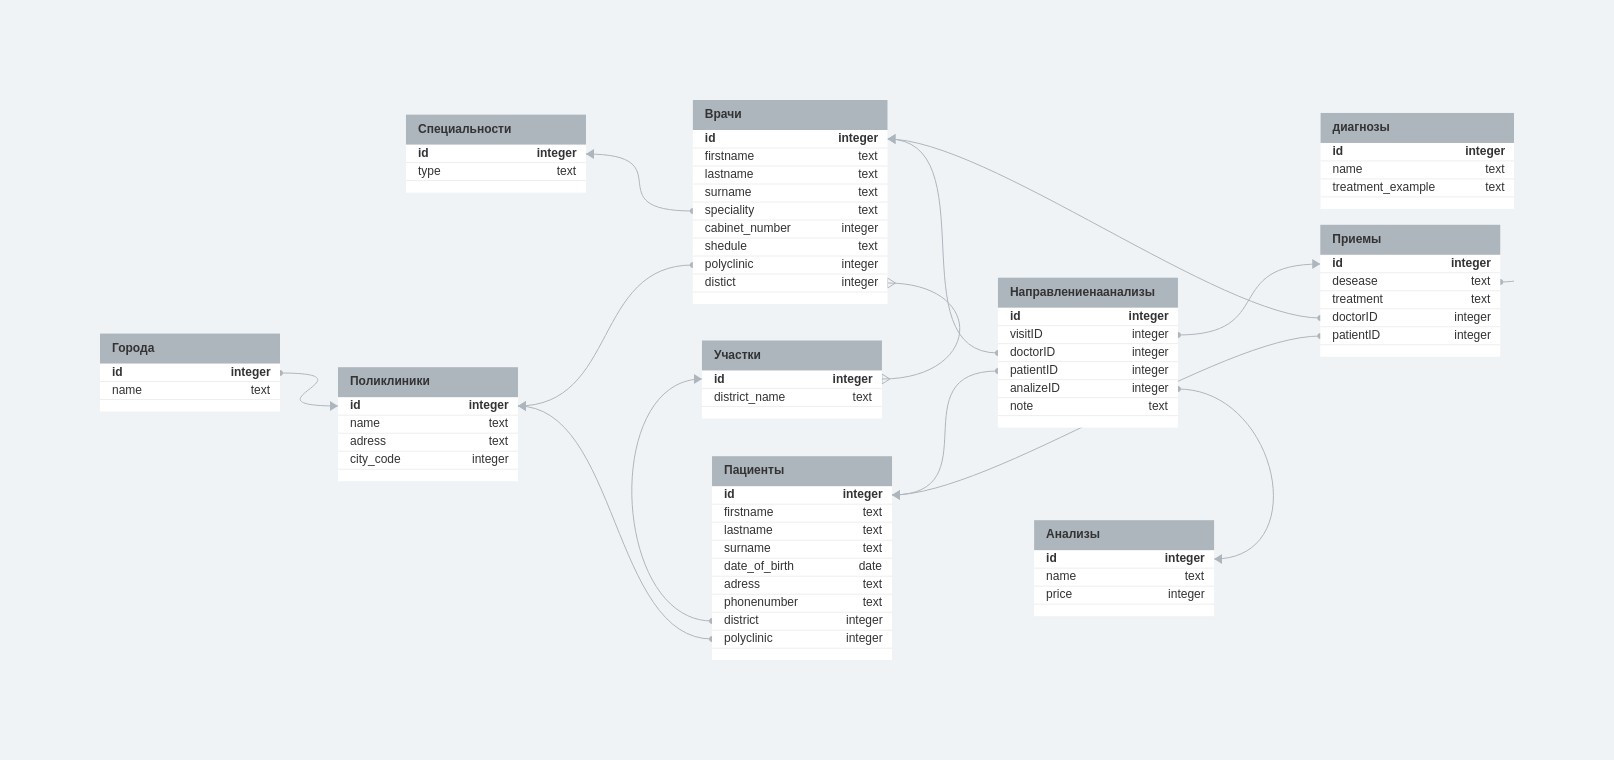
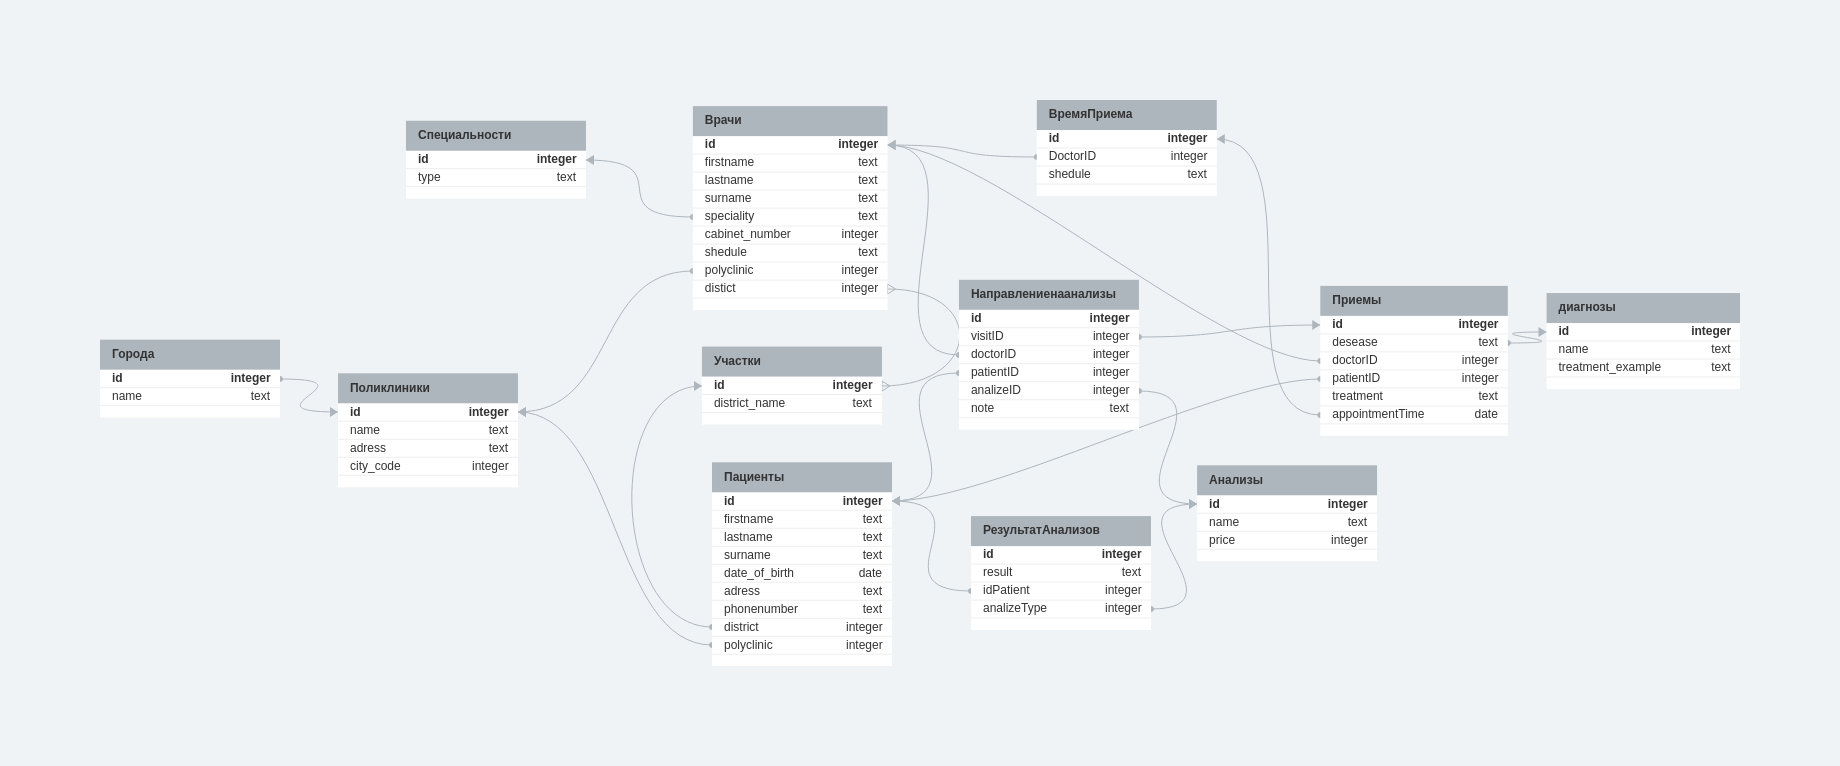
4

diff --git a/src/README.md b/src/README.md
@@ -12,19 +12,19 @@ phonenumber text
 district integer > Участки.id
 polyclinic integer > Поликлиники.id```
 }
-
+* пациент прикреплен к своему участку в поликлинике, поликлиники.id, участки.id
 > диагнозы {```
     id integer pk increments
     name text
     treatment_example text```
 }
-
+* здесь у нас есть виды болезней и их примерное лечение
 > Анализы {```
 id integer pk increments
 name text
 price integer```
 }
-
+* здесь у указаны виды анализов и их стоимость
 > Врачи {```
 id integer pk increments
 firstname text
@@ -36,37 +36,38 @@ shedule text
 polyclinic integer > Поликлиники.id
 distict integer```
 }
-
+* здесь у нас врачи, где каждый привязан к определенному учатку своей поликлиники
 > Специальности {```
 id integer pk increments > Doctor.id
 type text```
 }
-
+* тут у нас специальности врачей
 > Поликлиники {```
 id integer pk increments
 name text
 adress text
 city_code integer```
 }
-
+* тут у нас поликлиники города
 > Города {```
 id integer pk increments > Поликлиники.id
 name text```
 }
-
+* тут города
 > Участки {```
 id integer pk increments *>* Врачи.distict
 district_name text```
 }
-
+* тут участки поликилиники
 > Приемы {```
 id integer pk increments
 desease text > диагнозы.id
-treatment text
 doctorID integer > Врачи.id
-patientID integer > Пациенты.id```
+patientID integer > Пациенты.id
+treatment text
+appointmentTime date > ВремяПриема.id```
 }
-
+* по результатам приема мы можем получить направление на анализы, диагноз и лечение
 > Направлениенаанализы {```
 id integer pk increments
 visitID integer > Приемы.id
@@ -75,3 +76,17 @@ patientID integer > Пациенты.id
 analizeID integer > Анализы.id
 note text```
 }
+* врач может выдать пациенту направление на анализы
+> РезультатАнализов {```
+id integer pk increments
+result text
+idPatient integer > Пациенты.id
+analizeType integer > Анализы.id```
+}
+* пациент может получить результат анализа
+> ВремяПриема {```
+id integer pk increments
+DoctorID integer > Врачи.id
+shedule text```
+}
+* у врача есть свое время приема
